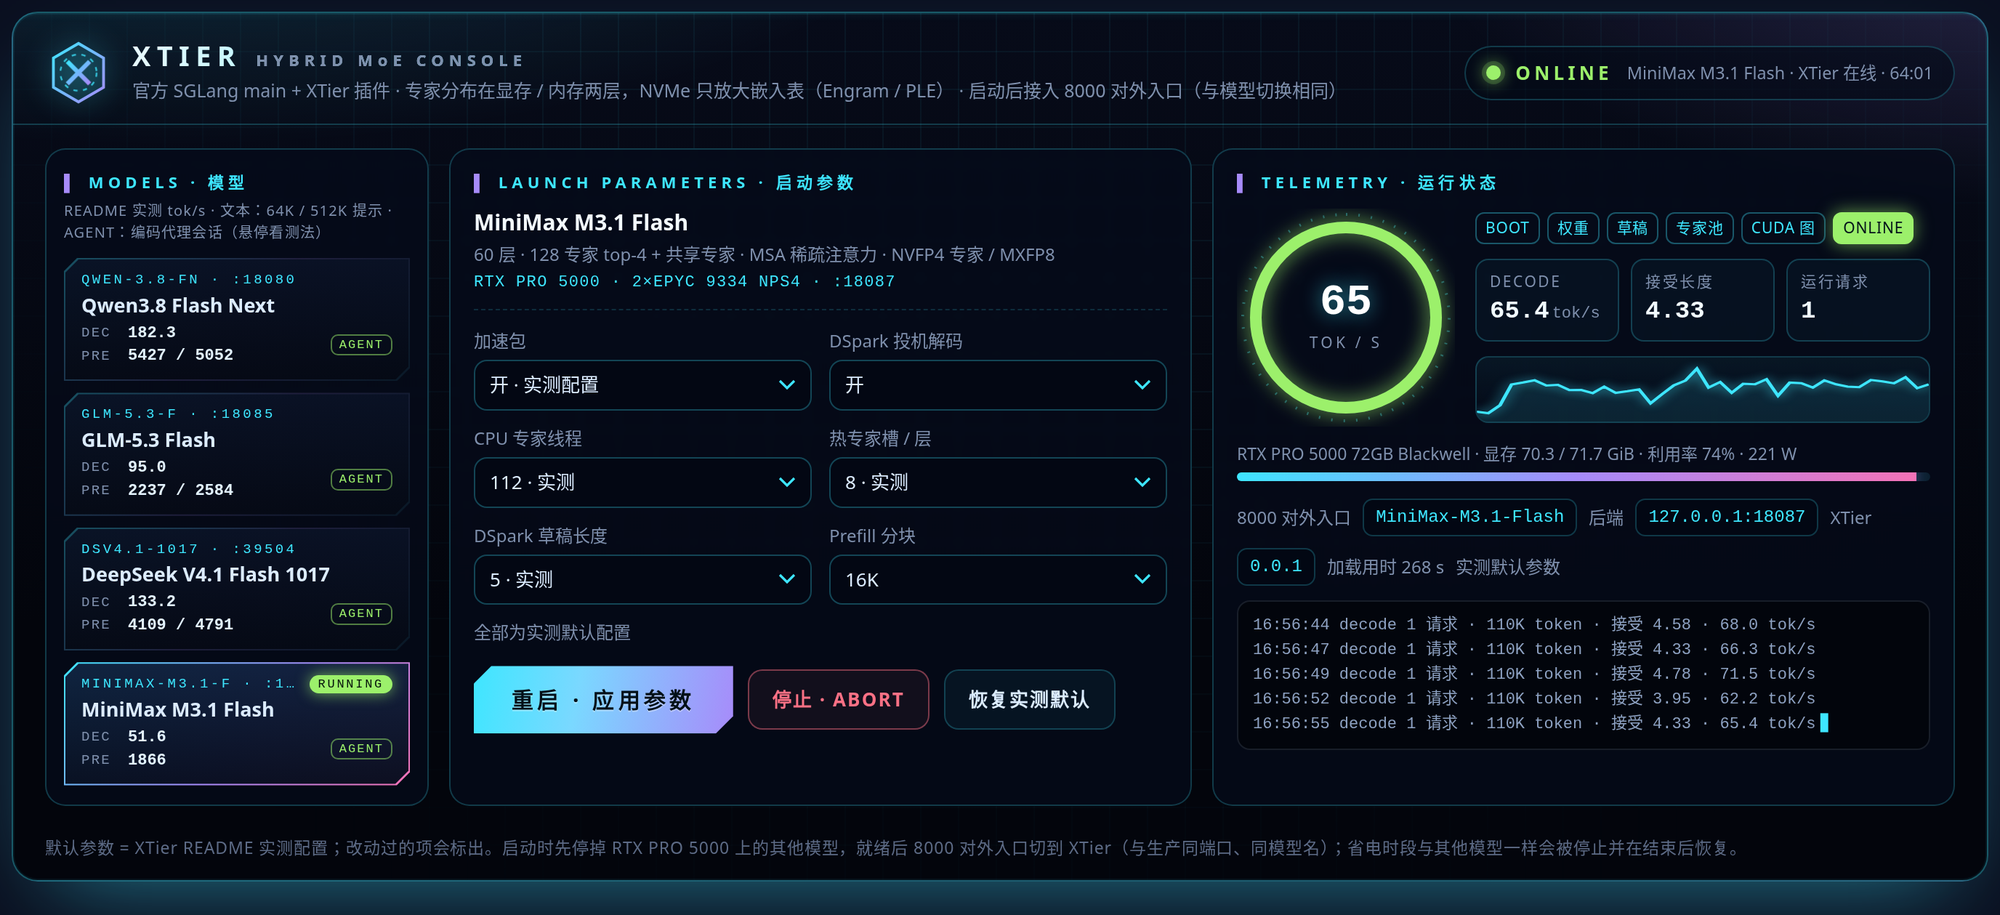
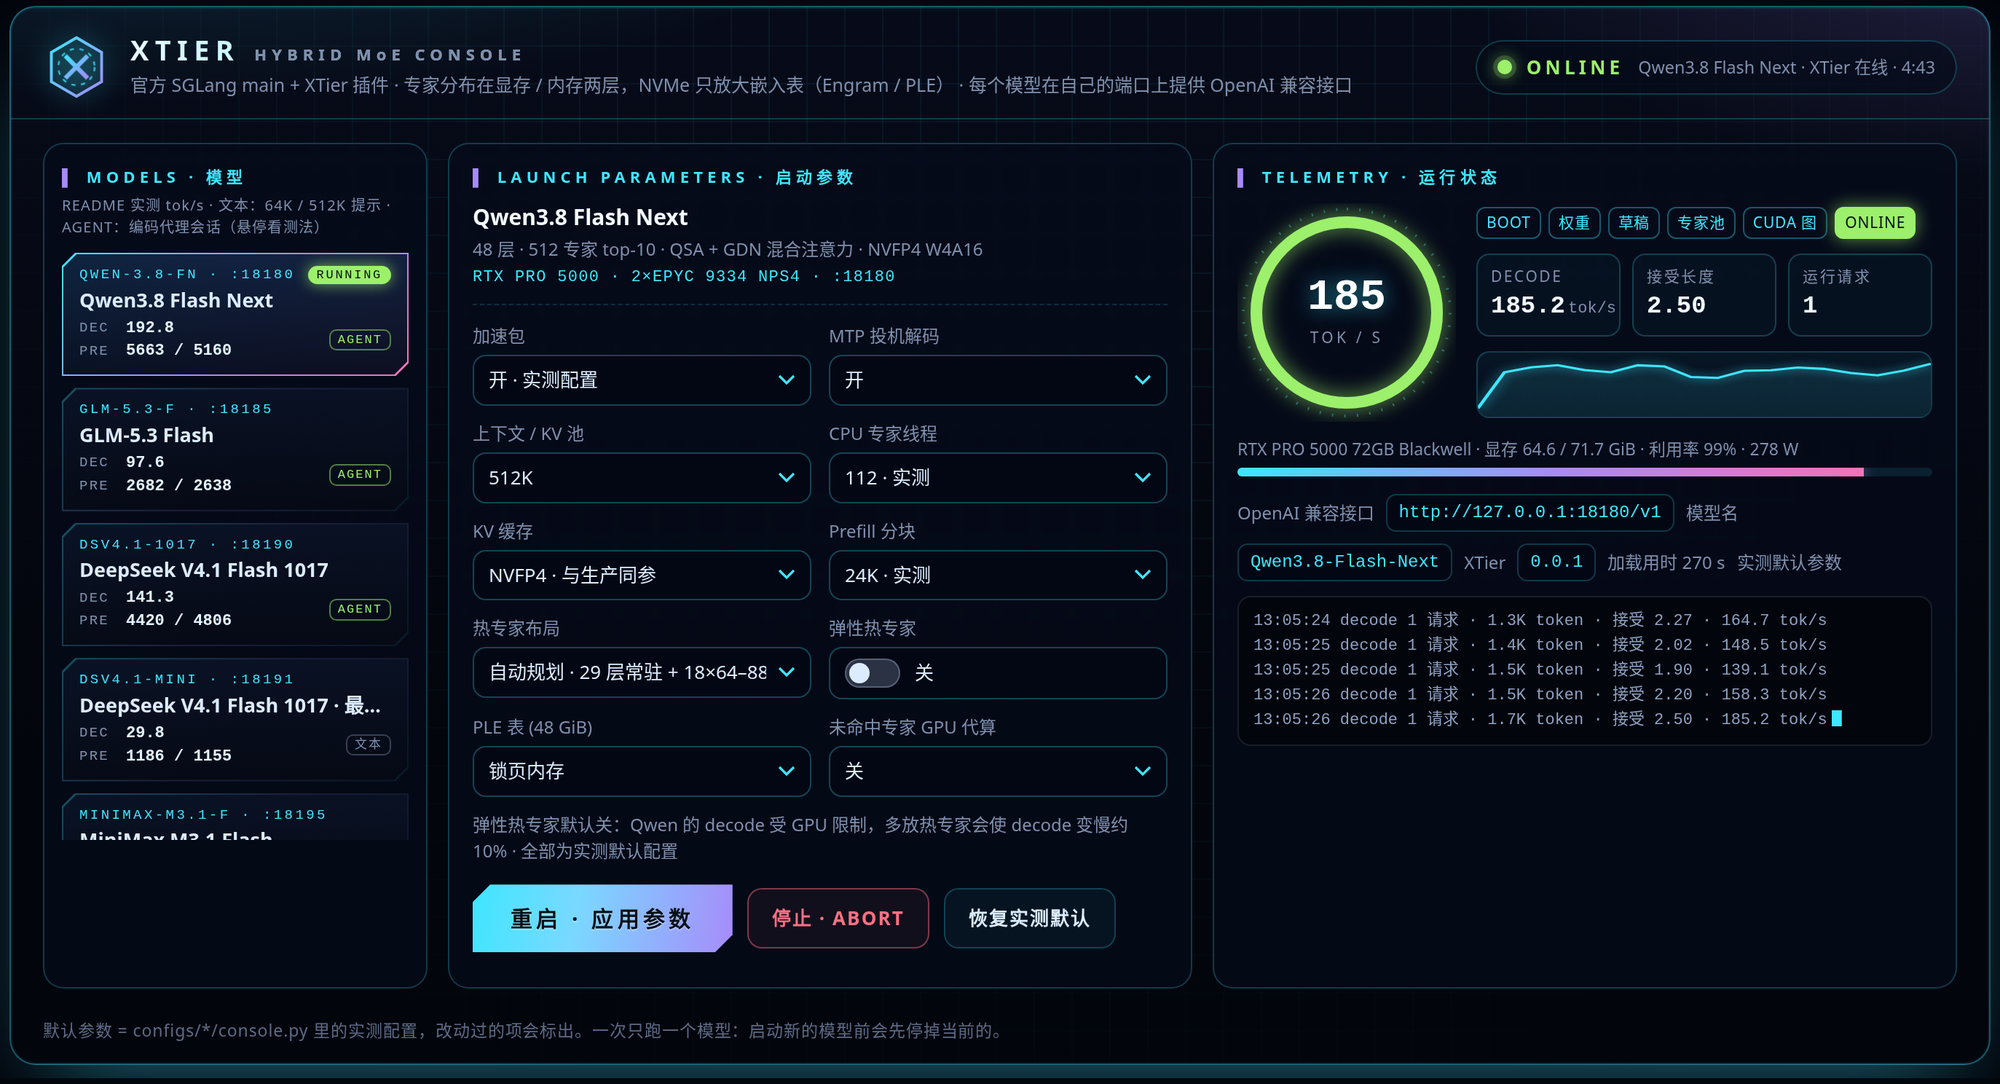
Missed experts on the GPU: report, README; the console screenshot from the open-source console
- docs/reports/2026-10-28-decode-miss-gpu.md: why (the GPU waits for the CPU part of a layer), how the GPU takes a
  share of the missed experts (selection, SM copy from the pinned shards, the cached experts' kernels), the checks
  (per-layer bitwise test on four models, unchanged PTX when off, copy tests), DeepSeek V4.1 with 112 / 16 / 8 CPU
  expert threads, and which machines it can help.
- README: a version note.
- docs/images/console.png: the page of python -m xtier.console with Qwen3.8 Flash Next online.

Changed region(s): [[0.0, 0.0, 1.0, 1.0], [0.868, 0.1224, 0.961, 0.153], [0.558, 0.4284, 0.589, 0.459]]

diff --git a/docs/reports/2026-10-28-decode-miss-gpu.md b/docs/reports/2026-10-28-decode-miss-gpu.md
@@ -1,0 +1,64 @@
+# 2026-10-28：decode 未命中的专家交给 GPU 代算（可选，默认关）
+
+问题：decode 时热专家池没命中的专家全由 CPU 算，GPU 算完命中的专家就等 CPU。CPU 弱的机器（核少、只有 AVX2、内存带宽有富余）
+等得更久，这时把一部分未命中专家的权重经 PCIe 拷进显存、交给 GPU 算，可以把 GPU 的空闲填上。本机（2×EPYC 9334，24 通道）
+CPU 读内存约 470 GB/s，PCIe 5.0 拷贝约 50 GB/s，CPU 算一个专家比 PCIe 拷一个快 8 倍左右，所以这里做成选项、默认关，
+收益要在 CPU 弱的机器上实测。
+
+## 做法（`XTIER_DECODE_MISS_GPU=比例`，`xtier/cache/pool.py`）
+
+- 每次 decode 调用（一个信箱槽，最多 8 个 token）打包之后，GPU 上一个小内核（`_miss_select`）从这次未命中的 n 个专家里取
+  round(比例 × n) 个（最多 `XTIER_DECODE_MISS_GPU_MAX` 个，默认 8），路由多的先取，一样多取 id 小的：GPU 这边一个专家的代价
+  基本是拷它的权重，和 token 数无关，CPU 那边 token 越多越费时。
+- 取走的路由在交给 CPU 的那份里改成 −1（和命中的专家一样，CPU 引擎跳过），GPU 一侧排在命中专家之后。
+- 权重从 CPU 引擎锁页的 NUMA 分片拷进显存暂存区（`_miss_copy`），由 SM 直接读主机内存：CUDA 图里拷贝引擎的拷贝地址是固定的，
+  跟不上 GPU 上才选出来的专家。实测 SM 连续读 50–53 GB/s，和拷贝引擎（50 GB/s）一样；在计算内核里按行直接读主机内存只有
+  22–24 GB/s（每行一次只读 128 字节），所以先拷进暂存区再算。
+- 计算用热专家池原来的 `_gate_up` / `_down`，加了一个编译期开关（槽位换成暂存区、序号从表里读），最后照旧按路由顺序合并、
+  加上 CPU 的结果。所以 GPU 代算的专家和命中的专家结果逐位相同。
+- 暂存区所有层共用（各层依次执行），大小 = 上限 × 一个专家（DeepSeek 8 × 17.9 MiB = 143 MiB），和热专家槽一起在 KV 缓存
+  之前分配。
+- 冷专家层不开（冷专家的内存槽在一次前向里会被换掉）；没有引擎分片时（`XTIER_PREFILL_FROM_SHARDS=0`）也不开。
+- 日志里热专家池的 hit 会把 GPU 代算的专家也算进去（CPU 调度器按“GPU 算了哪些”统计）。
+- 启动台：DeepSeek、GLM、Qwen 三张卡加了「未命中专家 GPU 代算」（关 / 10% / 20% / 30% / 50%，默认关；关加速包、开冷专家时变灰）。
+
+## 核对
+
+- `tests/miss_gpu_check.py`：四个模型各取一层真实权重（GLM-5.3 NVFP4；Qwen3.8 NVFP4，每个 NUMA 节点 80 行，验证分片边界；
+  DeepSeek V4.1 MXFP4；MiniMax M3.1 GPT-OSS SwiGLU），m = 1–8、比例 1 / 0.5 / 0.3、即时执行和 CUDA 图重放、带跳过的 token：
+  - 取走的专家与主机上按同样规则算的一致；
+  - 输出与“把取走的专家放进热专家池”的那一层逐位相同（比例 1 时与全部常驻的层逐位相同）；
+  - 与只用 CPU 引擎的结果相比，相对误差 ≤ 1.7e-3（与命中的专家同量级）。
+  四个模型全部通过。
+- 关着时：`_gate_up` / `_down` 在 DeepSeek、GLM 两种形状下生成的 PTX 与改动前相同（只差调试信息里的路径和行号）；
+  `tests/cache_check.py` 通过。
+- 端到端：照抄测试（`bench/copy_test.py`，8 段，单请求 / 两请求）见下表，GLM-5.3、Qwen3.8 开 30% 也都是 0/8。
+  第 2 段以没闭合的 `dict(` 结尾，DeepSeek 抄完偶尔多输出一个 `</src>`（表中 *）：关着也会出现（8 线程关的两次；10-23、10-24
+  没有这个功能的 5 次照抄，同一位置、同样的 7 个字符），是数值稍有变化就翻的收尾，与 GPU 代算无关；其余各段全部 0 差异。
+
+## 结果（DeepSeek V4.1 Flash 1017，启动台默认配置，RTX PRO 5000 + 2×EPYC 9334）
+
+CPU 弱的机器用 CPU 专家线程数模拟：16 线程（CPU 一层慢约 3 倍）、8 线程（每个 NUMA 节点 1 个，慢约 6 倍）。decode 速度取
+照抄 600 词那题（各配置输出的文字相同，token 数一样，可以直接比）；CPU 每层耗时是热专家池日志的两段（每段 500 个窗口）。
+
+| CPU 专家线程 | 代算比例 | 照抄 单 / 两请求 | decode tok/s | CPU 每层每次（µs） |
+|---|---|---|---:|---|
+| 112（本机实测配置） | 关 | 0/8 / 0/8 | 102.3 | 327 / 223 |
+| 112 | 10% | 1/8* / 0/8 | 90.8（−11%） | 294 / 203 |
+| 112 | 30% | 0/8 / 0/8 | 66.1（−35%） | 244 / 164 |
+| 16 | 关 | 0/8 / 0/8 | 84.5 | 1014 / 687 |
+| 16 | 10% | 1/8* / 0/8 | 84.3（持平） | 865 / 553 |
+| 16 | 30% | 0/8 / 0/8 | 65.5（−22%） | 726 / 454 |
+| 8 | 关 | 1/8* / 1/8* | 65.0 | 1857 / 1193 |
+| 8 | 10% | 0/8 / 0/8 | 68.7（+6%） | 1637 / 1058 |
+| 8 | 20% | 0/8 / 0/8 | 69.8（+7%） | 1474 / 960 |
+
+写一段 147 token 的代码那题（各配置输出相同的那几组）：112 线程 154.5 → 107.6（10%）；16 线程 60.2 → 73.5（10%，+22%）；
+8 线程 37.3 → 42.8（10%，+15%）→ 46.0（20%，+23%）。
+
+- 本机 CPU 算一个 DeepSeek 专家约 30–40 µs，GPU 拷一个约 380 µs（17.9 MiB，50 GB/s），交出去越多越慢。CPU 慢到算一个专家要
+  一两百 µs 时开始有收益。
+- 比例取多少：每层 CPU 和 GPU 各自的时间都会变，最好的比例约为（CPU 一层的时间 − GPU 一层的时间）÷（CPU 算一个 + GPU 拷一个）
+  ÷ 每次的未命中数；比例太大时 GPU 一侧反过来成瓶颈（16 线程 30%）。建议从 10% 试起，看 decode 每步时间。
+- 这里的模拟是核少、内存带宽有富余的情况：PCIe 拷贝读的也是同一组内存，CPU 已经把内存带宽读满的机器（例如核多的双通道
+  台式机），交出去的那部分 CPU 也省不下来。PCIe 4.0 的机器拷一个专家的时间要翻倍。

diff --git a/README.md b/README.md
@@ -37,7 +37,7 @@ xtier/
 └── platform.py  与模型无关的主机修正（TileLang 目标选择）
 csrc/          CPU 引擎：AVX-512 / AVX2 专家内核、NUMA 线程池、CPU 与 GPU 之间的信箱通信
 configs/       每个"模型 × 硬件"的启动配置，console.py 是它在启动台里的条目（选项、默认值、启动命令）
-tests/         单层测试（引擎、信箱、缓存、prefill、格式适配、hc_mix、投机截断、QSA NVFP4、GPT-OSS SwiGLU、wo_a、MiniMax NVFP4 KV、快速加载）、启动台与规划器检查
+tests/         单层测试（引擎、信箱、缓存、prefill、格式适配、hc_mix、投机截断、QSA NVFP4、GPT-OSS SwiGLU、wo_a、MiniMax NVFP4 KV、快速加载、未命中代算）、启动台与规划器检查
 tools/         构建、内存看门狗、规划器（plan_probe 探测、plan_trace 路由档案、plan_auto 出方案、plan_calibrate 校准，见 docs/planner.md）
 bench/         验收脚本（PPL、照抄、验证步、并发、prefill 延迟）与结果
 ```
@@ -263,6 +263,8 @@ decode 约慢 10%），主要受限于硬盘速度。
 
 ## 版本更新
 
+- 2026-10-28：decode 时可把一部分未命中的专家交给 GPU 代算（可选，`XTIER_DECODE_MISS_GPU`，默认关；启动台三张卡可选），
+  给 CPU 比 PCIe 慢的机器用，结果与命中的专家相同。详见[文档](docs/reports/2026-10-28-decode-miss-gpu.md)。
 - 2026-10-27（下午）：快速加载（可选，`XTIER_FAST_LOAD=1`，默认关）：专家直接从模型文件或冷存储读进 CPU 引擎，仍是全部装好
   才报在线；DeepSeek 启动 472 → 186 s，卸载 30% 409 → 124 s。详见[文档](docs/reports/2026-10-27-fast-load.md)。
 - 2026-10-27：启动台新卡片「DeepSeek V4.1 Flash 1017 · 最小化」：32 GB 显存 + 128 GB 内存（模拟 RTX 5090），70% 的专家放硬盘，
